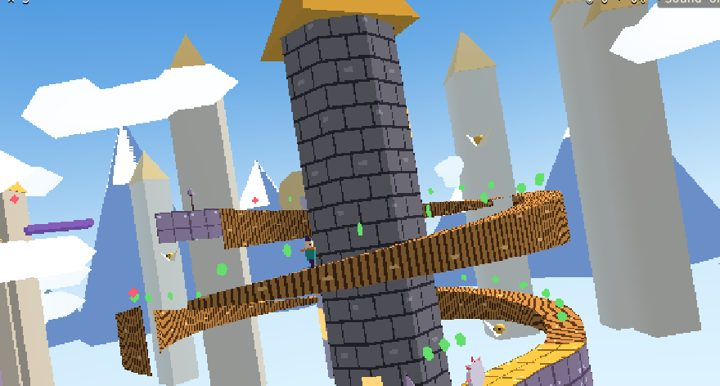
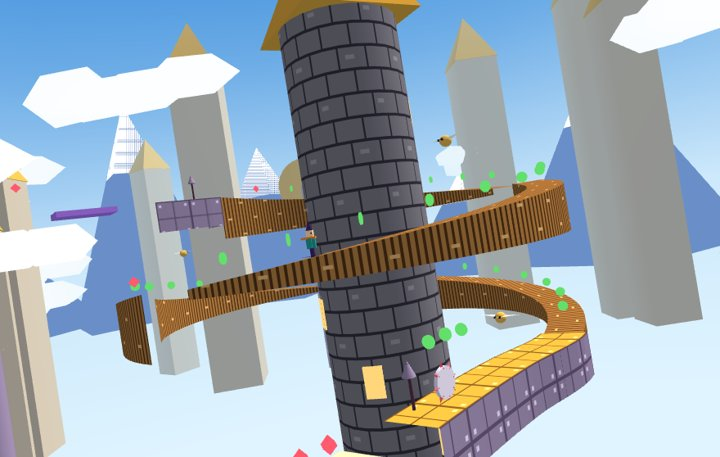
Render Hullabaloo at full resolution with sharper graphics
Claude-Session: https://claude.ai/code/session_01HhtJvB5joHdzCvnk86LVNw

diff --git a/games/hullabaloo/index.html b/games/hullabaloo/index.html
@@ -17,7 +17,7 @@
 }
 [hidden]{display:none!important}
 html,body{height:100%;margin:0;background:var(--ink);color:var(--cream);overflow:hidden;font-family:var(--mono);overscroll-behavior:none;touch-action:none}
-#stage{position:fixed;inset:0;width:100%;height:100%;display:block;image-rendering:pixelated}
+#stage{position:fixed;inset:0;width:100%;height:100%;display:block}
 button,input{font:inherit;color:inherit}
 button{cursor:pointer}
 :focus-visible{outline:3px solid var(--teal);outline-offset:2px}
@@ -88,17 +88,16 @@ kbd{font:inherit;color:var(--cream);border:1px solid var(--dim);border-radius:3p
 <script>
 'use strict';
 /* ========== Rendering setup ========== */
-THREE.ShaderChunk.project_vertex += '\n gl_Position.xy = floor(gl_Position.xy / gl_Position.w * vec2(320.,200.)) / vec2(320.,200.) * gl_Position.w;\n';
 const $ = id => document.getElementById(id);
 const canvas = $('stage');
 let renderer=null;
-try { renderer = new THREE.WebGLRenderer({canvas,antialias:false}); }
+try { renderer = new THREE.WebGLRenderer({canvas,antialias:true,powerPreference:'high-performance'}); }
 catch(e){ $('ui').innerHTML='<div class="screen solid"><h2>This game needs WebGL</h2><p>Your browser could not start 3D graphics. Turn on hardware acceleration or try another browser, then reload the page.</p></div>'; throw e; }
-renderer.setPixelRatio(1);
+let quality=Math.min(window.devicePixelRatio||1,2);renderer.setPixelRatio(quality);
 const camera = new THREE.PerspectiveCamera(50,16/9,.3,700);
 function resize(){
-  const w=innerWidth||800,h=innerHeight||450,a=w/h,H=a<1?520:Math.min(400,Math.max(300,h));
-  renderer.setSize(Math.round(H*a),H,false);
+  const w=innerWidth||800,h=innerHeight||450,a=w/h;
+  renderer.setSize(w,h,false);
   camera.aspect=a; camera.fov=a<1?72:50; camera.updateProjectionMatrix();
 }
 addEventListener('resize',resize); resize();
@@ -110,10 +109,10 @@ const sign0=v=>v>0?1:v<0?-1:0;const clamp=(v,a,b)=>Math.max(a,Math.min(b,v)), le
 /* Faceted geometry cache, so the low-poly look stays flat-lit */
 const facet=g=>{const n=g.index?g.toNonIndexed():g;n.computeVertexNormals();return n};
 const GEO={
-  box:facet(new THREE.BoxGeometry(1,1,1)), ball:facet(new THREE.IcosahedronGeometry(.5,1)), lump:facet(new THREE.IcosahedronGeometry(.5,0)),
-  cone:facet(new THREE.ConeGeometry(.5,1,6)), cone4:facet(new THREE.ConeGeometry(.5,1,4)), cyl:facet(new THREE.CylinderGeometry(.5,.5,1,8)),
-  coin:facet(new THREE.CylinderGeometry(.42,.42,.14,8).rotateX(Math.PI/2)), gem:facet(new THREE.OctahedronGeometry(.48,0)),
-  gear:facet(new THREE.CylinderGeometry(1,1,.25,10).rotateX(Math.PI/2)), ring:facet(new THREE.TorusGeometry(1.5,.22,6,14)), wing:facet(new THREE.ConeGeometry(.6,1.5,3)),
+  box:facet(new THREE.BoxGeometry(1,1,1)), ball:new THREE.IcosahedronGeometry(.5,4), lump:facet(new THREE.IcosahedronGeometry(.5,0)),
+  cone:new THREE.ConeGeometry(.5,1,20), cone4:facet(new THREE.ConeGeometry(.5,1,4)), cyl:new THREE.CylinderGeometry(.5,.5,1,24),
+  coin:new THREE.CylinderGeometry(.42,.42,.14,20).rotateX(Math.PI/2), gem:facet(new THREE.OctahedronGeometry(.48,0)),
+  gear:new THREE.CylinderGeometry(1,1,.25,28).rotateX(Math.PI/2), ring:new THREE.TorusGeometry(1.5,.22,12,40), wing:facet(new THREE.ConeGeometry(.6,1.5,3)),
 };
 const MATS={};
 const mat=c=>MATS[c]||(MATS[c]=new THREE.MeshLambertMaterial({color:c}));
@@ -121,7 +120,7 @@ const glow=c=>MATS['g'+c]||(MATS['g'+c]=new THREE.MeshBasicMaterial({color:c}));
 function M(geo,c,sx=1,sy=sx,sz=sx,x=0,y=0,z=0,parent=null,g=false){const m=new THREE.Mesh(GEO[geo],g?glow(c):mat(c));m.scale.set(sx,sy,sz);m.position.set(x,y,z);if(parent)parent.add(m);return m}
 
 function paint(kind,a,b,c){
-  const cv=document.createElement('canvas');cv.width=cv.height=64;const x=cv.getContext('2d');
+  const cv=document.createElement('canvas');cv.width=cv.height=512;const x=cv.getContext('2d');x.scale(8,8);
   x.fillStyle=a;x.fillRect(0,0,64,64);
   if(kind==='brick'){x.fillStyle=b;for(let r=0;r<4;r++)for(let i=-1;i<3;i++)x.fillRect(i*32+(r%2)*16+1,r*16+1,30,14);x.fillStyle=c;x.fillRect(5,5,8,3);x.fillRect(40,38,10,3)}
   if(kind==='cobble'){x.fillStyle=b;for(let r=0;r<4;r++)for(let i=0;i<4;i++){x.fillRect(i*16+2+(r%2)*3,r*16+2,12,12)}x.fillStyle=c;x.fillRect(6,6,5,3);x.fillRect(38,22,5,3);x.fillRect(22,50,5,3)}
@@ -129,7 +128,7 @@ function paint(kind,a,b,c){
   if(kind==='bark'){x.fillStyle=b;for(let i=0;i<8;i++)x.fillRect(i*8+1,0,5,64);x.fillStyle=c;x.fillRect(11,12,10,4);x.fillRect(42,44,10,4)}
   if(kind==='plate'){x.fillStyle=b;x.fillRect(2,2,60,60);x.fillStyle=c;[[6,6],[54,6],[6,54],[54,54]].forEach(p=>x.fillRect(p[0],p[1],5,5));x.fillStyle=a;x.fillRect(0,31,64,2);x.fillRect(31,0,2,64)}
   if(kind==='swirl'){x.fillStyle=b;for(let i=0;i<4;i++){x.fillRect(i*16,0,8,64)}x.fillStyle=c;for(let i=0;i<4;i++){x.fillRect(0,i*16+4,64,3)}}
-  const t=new THREE.CanvasTexture(cv);t.magFilter=t.minFilter=THREE.NearestFilter;t.wrapS=t.wrapT=THREE.RepeatWrapping;t.generateMipmaps=false;return t;
+  const t=new THREE.CanvasTexture(cv);t.magFilter=THREE.LinearFilter;t.minFilter=THREE.LinearMipmapLinearFilter;t.anisotropy=Math.min(8,renderer.capabilities.getMaxAnisotropy());t.wrapS=t.wrapT=THREE.RepeatWrapping;return t;
 }
 
 /* ========== Rails: the 2D play surface bent through 3D ========== */
@@ -728,14 +727,16 @@ function toggleMute(){Sound.on=!Sound.on;$('muteB').textContent=Sound.on?'Sound 
 $('pauseB').onclick=togglePause;$('muteB').onclick=()=>{Sound.boot();toggleMute()};
 
 /* ========== Main loop ========== */
-let last=0,acc=0;
+let last=0,acc=0,fpsT=0,fpsN=0;
 function frame(now){
   requestAnimationFrame(frame);
   const dt=Math.min(.05,(now-last)/1000||0);last=now;
   if(toastT>0){toastT-=dt;if(toastT<=0)$('toast').textContent=''}
   if(G.state==='play'&&!G.headless){acc+=dt;let n=0;while(acc>=1/60&&n<4&&G.state==='play'){step(1/60);acc-=1/60;n++}hud();snapCam(false,dt)}
   else if(G.state==='title'&&P){const f=P.rail.frame(P.s+6+G.t*0);G.t+=dt;P.s=(P.s+dt*1.3);if(P.s>P.rail.len-20)P.s=4;const fl=floorAt(P.rail,P.s,1e3);if(fl)P.y=topAt(fl,P.s);P.vx=4;P.anim+=dt*5;P.ground=true;snapCam(false,dt)}
-  if(!G.headless)draw(dt);
+  if(!G.headless){draw(dt);
+    // keep it smooth on slower phones by stepping resolution down only if needed
+    if(G.state==='play'){fpsT+=dt;fpsN++;if(fpsT>=3){if(fpsN/fpsT<38&&quality>1){quality=Math.max(1,quality-.5);renderer.setPixelRatio(quality);resize()}fpsT=fpsN=0}}}
 }
 title();requestAnimationFrame(frame);
 window.hullabaloo={G,K,LEVELS,step,play,press,get P(){return P},get W(){return W},draw,snap:snapCam,get scene(){return scene},map,title,pct,floorAt,topAt,CHAR};
